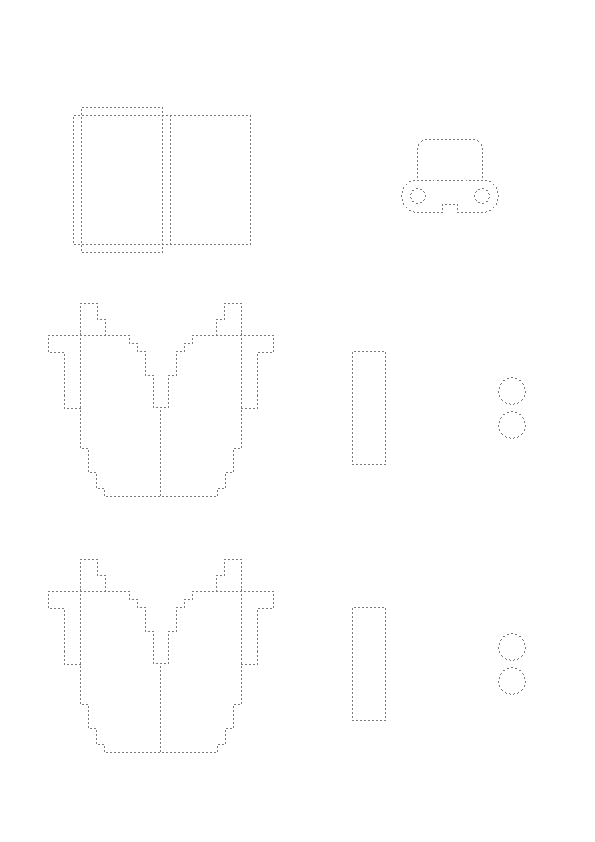
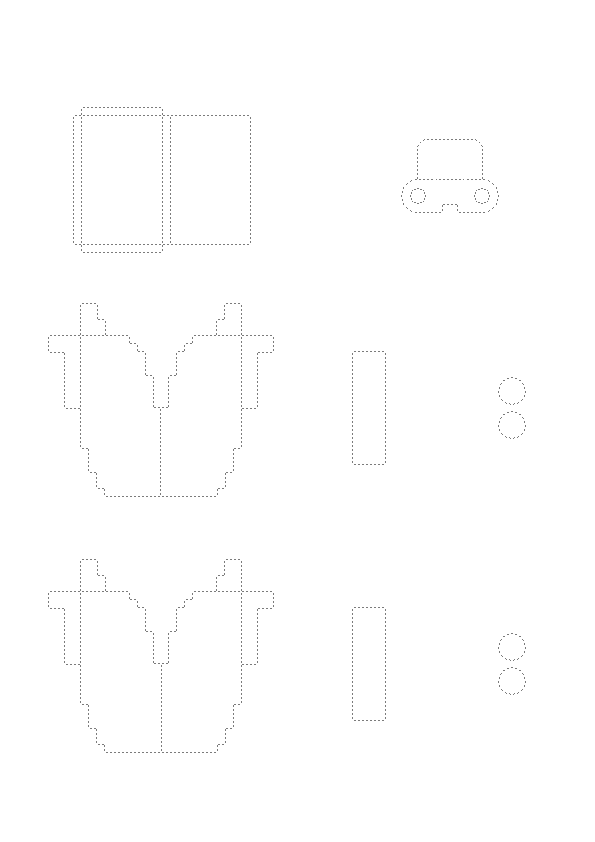
Updated cape and elytra gen

Changed region(s): [[0.2723, 0.1544, 0.3025, 0.2779]]

diff --git a/src/generators/minecraftCapeAndElytra/minecraftCapeAndElytraGenerator.ts b/src/generators/minecraftCapeAndElytra/minecraftCapeAndElytraGenerator.ts
@@ -15,6 +15,18 @@ import foregroundImage from "./images/Foreground.png";
 import foldsImage from "./images/Folds.png";
 import labelsImage from "./images/Labels.png";
 
+import migratorImage from "./textures/Migrator.png";
+import vanillaImage from "./textures/Vanilla.png";
+import cherryBlossomImage from "./textures/CherryBlossom.png";
+import minecon2011Image from "./textures/Minecon2011.png";
+import minecon2012Image from "./textures/Minecon2012.png";
+import minecon2013Image from "./textures/Minecon2013.png";
+import minecon2015Image from "./textures/Minecon2015.png";
+import minecon2016Image from "./textures/Minecon2016.png";
+import minecon2019Image from "./textures/Minecon2019.png";
+import mojangImage from "./textures/Mojang.png";
+import elytraImage from "./textures/Elytra.png";
+
 const id = "minecraft-cape-and-elytra";
 
 const name = "Minecraft Cape And Elytra";
@@ -22,6 +34,7 @@ const name = "Minecraft Cape And Elytra";
 const history: HistoryDef = [
   "16 Mar 2021 NinjolasNJM - Initially completed both cape and elytra generation.",
   "06 Jun 2021 NinjolasNJM - Converted to ReScript generator.",
+  "02 Feb 2024 NinjolasNJM - added default textures and improved folds. ",
 ];
 
 const thumbnail: ThumbnailDef = {
@@ -34,14 +47,99 @@ const images: ImageDef[] = [
   { id: "Labels", url: labelsImage.src },
 ];
 
-const textures: TextureDef[] = [];
+const textures: TextureDef[] = [
+  {
+    id: "Cape",
+    url: migratorImage.src,
+    standardWidth: 64,
+    standardHeight: 32,
+  },
+  {
+    id: "Migrator Cape",
+    url: migratorImage.src,
+    standardWidth: 64,
+    standardHeight: 32,
+  },
+  {
+    id: "Vanilla Cape",
+    url: vanillaImage.src,
+    standardWidth: 64,
+    standardHeight: 32,
+  },
+  {
+    id: "Cherry Blossom Cape",
+    url: cherryBlossomImage.src,
+    standardWidth: 64,
+    standardHeight: 32,
+  },
+  {
+    id: "Minecon 2011 Cape",
+    url: minecon2011Image.src,
+    standardWidth: 64,
+    standardHeight: 32,
+  },
+  {
+    id: "Minecon 2012 Cape",
+    url: minecon2012Image.src,
+    standardWidth: 64,
+    standardHeight: 32,
+  },
+  {
+    id: "Minecon 2013 Cape",
+    url: minecon2013Image.src,
+    standardWidth: 64,
+    standardHeight: 32,
+  },
+  {
+    id: "Minecon 2015 Cape",
+    url: minecon2015Image.src,
+    standardWidth: 64,
+    standardHeight: 32,
+  },
+  {
+    id: "Minecon 2016 Cape",
+    url: minecon2016Image.src,
+    standardWidth: 64,
+    standardHeight: 32,
+  },
+  {
+    id: "Founder's Cape",
+    url: minecon2019Image.src,
+    standardWidth: 64,
+    standardHeight: 32,
+  },
+  {
+    id: "Mojang Cape",
+    url: mojangImage.src,
+    standardWidth: 64,
+    standardHeight: 32,
+  },
+  {
+    id: "Elytra",
+    url: elytraImage.src,
+    standardWidth: 64,
+    standardHeight: 32,
+  },
+];
 
 const script: ScriptDef = (generator: Generator) => {
   // Define the user inputs
   generator.defineTextureInput("Cape", {
     standardWidth: 64,
     standardHeight: 32,
-    choices: [],
+    choices: [
+      "Migrator Cape",
+      "Vanilla Cape",
+      "Cherry Blossom Cape",
+      "Minecon 2011 Cape",
+      "Minecon 2012 Cape",
+      "Minecon 2013 Cape",
+      "Minecon 2015 Cape",
+      "Minecon 2016 Cape",
+      "Founder's Cape",
+      "Mojang Cape",
+      "Elytra",
+    ],
   });
 
   // Define user variables
